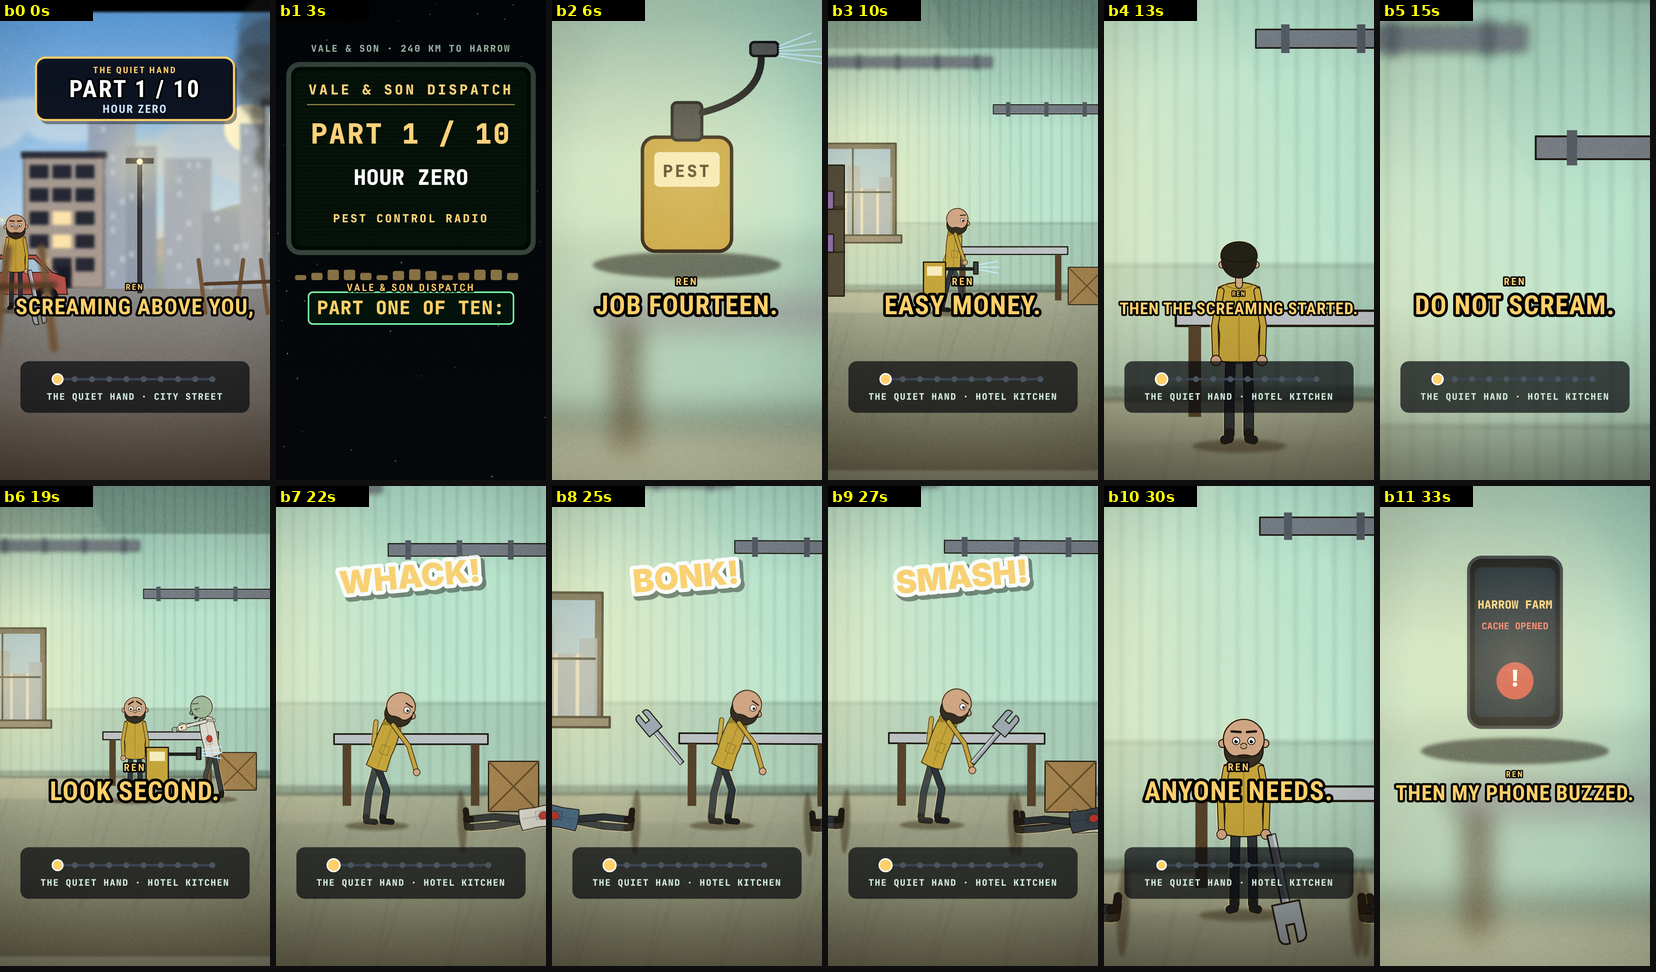
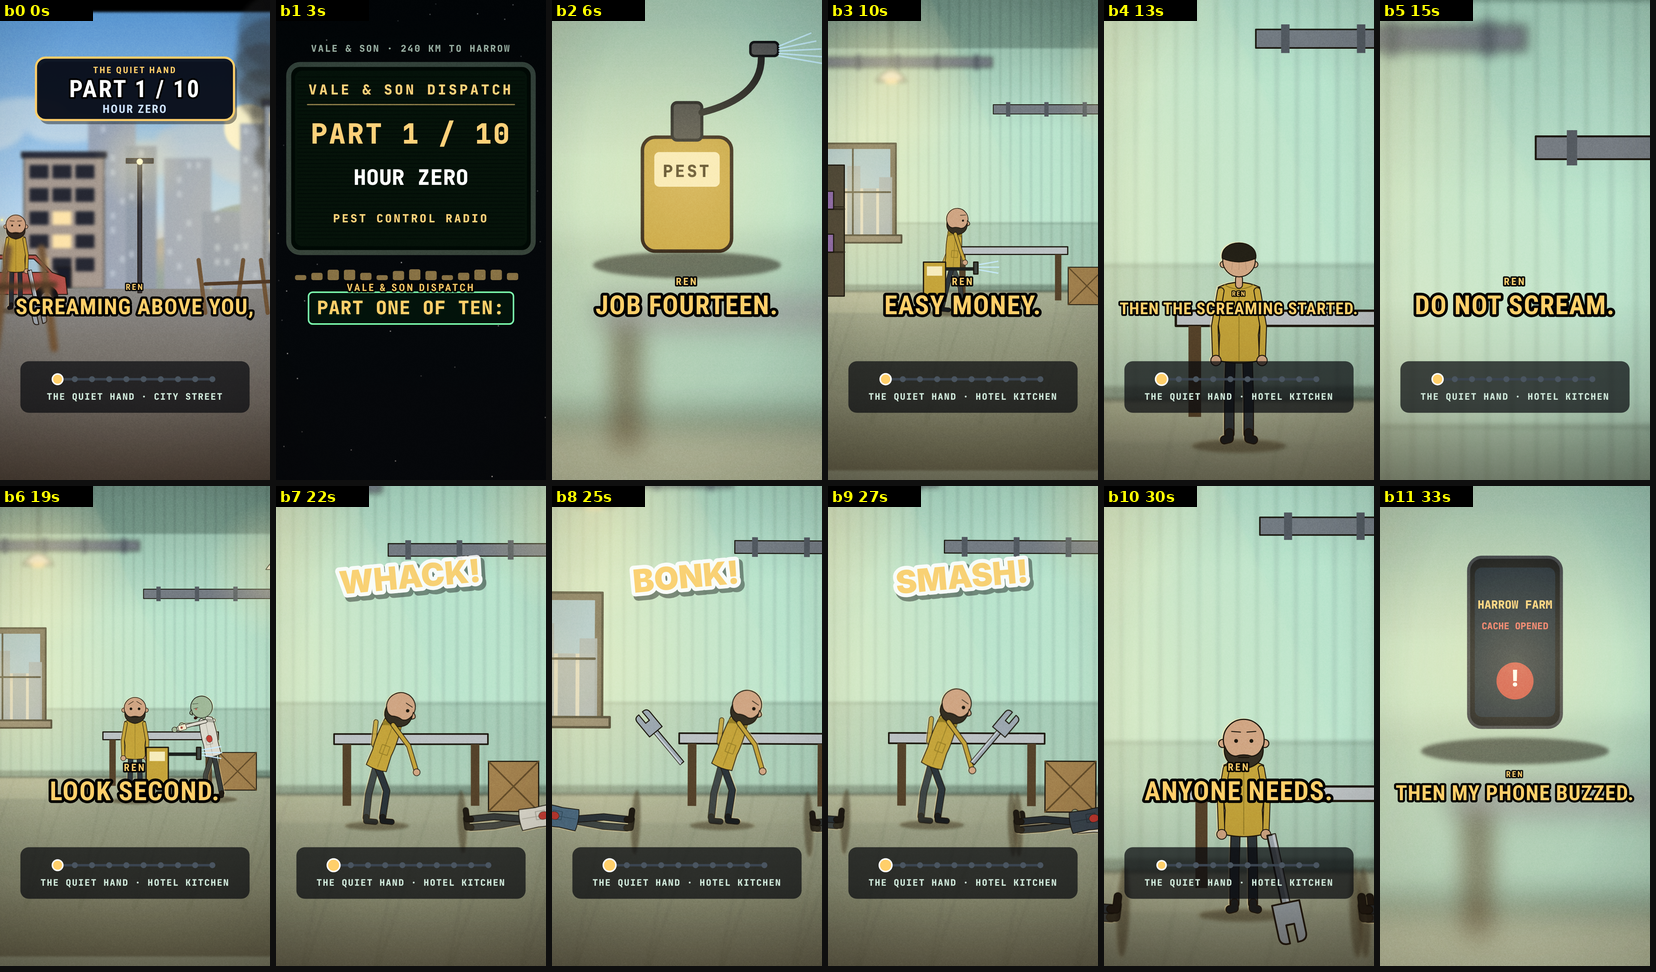
Ep1: pendant lamps + curtain depth, back-of-head fix

diff --git a/studio/long/world9.js b/studio/long/world9.js
@@ -63,6 +63,8 @@ const IT={
   if(day){for(const sx of[330,760,1040]){const sg=G(g,{style:'filter:blur(5px)'});for(let j=0;j<7;j++)C(sg,sx+Math.sin(j*1.3)*18,-340-j*52,34+j*10,'#3a3836',{opacity:.55-j*.04})}}},
  keys:(g,o)=>{C(g,0,-30,22,'none',{stroke:'#aab2bb','stroke-width':7});for(let i=0;i<6;i++){const q=G(g,{transform:`rotate(${-60+i*24} 0 -30)`});R(q,-5,-62,10,44,['#d4a62a','#aab2bb','#c0504a','#4a7ab0'][i%4],S({'stroke-width':2.4}));C(q,0,-52,3,'#241408')}},
  sprayer:(g,o)=>{R(g,-26,-96,52,92,'#c8a028',S());R(g,-18,-86,36,22,'#f2e6b0');R(g,26,-84,70,8,'#222');R(g,92,-96,10,28,'#444',S());P(g,'M104,-90 L150,-98 M104,-84 L152,-84 M104,-78 L150,-70','none',{stroke:'#bfe8ff','stroke-width':3,opacity:.85})},
+ pendant:(g,o)=>{L(g,0,-900,0,-(o.h||210),INK,3);P(g,'M-34,-'+((o.h||210)-34)+' Q0,-'+((o.h||210)+18)+' 34,-'+((o.h||210)-34)+'Z','#e8e0c8',S());C(g,0,-(o.h||210)+36,o.r||150,'url(#gLamp)',{opacity:o.a||.5});R(g,-14,-(o.h||210)+30,28,10,GL,{opacity:.95})},
+ curtain:(g,o)=>{for(let i=0;i<6;i++)P(g,'M'+(i*22)+',-'+(o.h||300)+' Q'+(i*22+10)+',-'+((o.h||300)/2)+' '+(i*22)+',0 L'+(i*22+22)+',0 Q'+(i*22+30)+',-'+((o.h||300)/2)+' '+(i*22+22)+',-'+(o.h||300)+'Z',o.c||'#c8695a',{opacity:.92,stroke:INK,'stroke-width':1.4})},
  wrench:(g,o)=>{const q=G(g,{});R(q,-7,-120,14,120,'#9aa4b0',S());R(q,-7,-120,5,120,'#d6dde6',{opacity:.7});P(q,'M-24,-120 L-24,-176 Q-24,-190 -10,-190 L-7,-190 L-7,-158 L7,-158 L7,-190 L10,-190 Q24,-190 24,-176 L24,-120Z','#9aa4b0',S())},
  flashlight:(g,o)=>{R(g,-8,-70,16,70,'#333',S());R(g,-12,-92,24,22,'#555',S());P(g,'M-12,-92 L-60,-170 L60,-170 L12,-92Z','#fff6b0',{opacity:.28})},
  pan:(g,o)=>{C(g,0,-60,48,'#2a2a30',S());C(g,0,-60,36,'#c8ccd4');P(g,'M-14,-80 L10,-74 L-6,-52Z','#fff',{opacity:.7});R(g,44,-68,96,16,'#2a2a30',S({'stroke-width':2.4}))},

diff --git a/studio/long/pax9.js b/studio/long/pax9.js
@@ -91,7 +91,7 @@ const P_=(g,d,fill,o)=>P(g,d,fill,Object.assign({stroke:'#2a1c13','stroke-width'
 function paxBack(g,P,D,o,ink){const q=G(g,{transform:`scale(${D.hs||(D.kid?1.18:1.1)})`});const hc=D.hc||'#2a1e16',h=D.hair;
  for(const s of[-1,1])C(q,s*31,8,6.2,P.skin,{stroke:ink,'stroke-width':2.5});
  if(h==='pigtails'){for(const s of[-1,1]){blob(q,`M${s*30},-6 Q${s*58},4 ${s*52},46 Q${s*40},32 ${s*28},8Z`,hc,ink);C(q,s*38,10,5,'#e0463a',{stroke:ink,'stroke-width':2})}}
- const skull=h==='straw'?(D.bun||'#d4d4dc'):(h==='bald'&&!D.hc?P.skin:hc);
+ const hairy=['bun','curls','bob','pony','messy','beanie','seedcap','pigtails','hood','slick'].includes(h);const skull=h==='straw'?(D.bun||'#d4d4dc'):((h==='bald'||!hairy)?P.skin:hc);
  C(q,0,0,32,skull,{stroke:ink,'stroke-width':3});for(const dx of[-12,0,12])L(q,dx,-2,dx+(dx?dx*.2:0),18,ink,1.6,{opacity:.18});
  if(h==='straw'){C(q,0,6,14,D.bun||'#d4d4dc',{stroke:ink,'stroke-width':2.4});E('ellipse',{cx:0,cy:-8,rx:50,ry:11,fill:hc,stroke:ink,'stroke-width':3},q);blob(q,'M-30,-8 C-34,-46 34,-46 30,-8Z',hc,ink);R(q,-31,-22,62,8,'#a8332b',{stroke:ink,'stroke-width':2})}
  else if(h==='seedcap'){blob(q,'M-34,2 C-40,-48 40,-48 34,2 Q0,-8 -34,2Z',hc,ink);R(q,-16,-8,32,9,'#ffd23a',{rx:3,stroke:ink,'stroke-width':1.8});L(q,-30,0,30,0,'#1e4f2c',2.4);C(q,0,-40,3.4,'#1e4f2c')}

diff --git a/studio/departments/BACKLOG.md b/studio/departments/BACKLOG.md
@@ -1,6 +1,6 @@
 # Studio backlog (generated by improve.py, do not edit by hand)
 
-Updated 2026-10-30 12:52 UTC from 4 reviewed clips. Work from the top; fix the CAUSE in the toolchain, then re-review.
+Updated 2026-10-30 13:11 UTC from 4 reviewed clips. Work from the top; fix the CAUSE in the toolchain, then re-review.
 
 | # | dept | seen in | issue |
 |---:|---|---:|---|
@@ -9,7 +9,7 @@ Updated 2026-10-30 12:52 UTC from 4 reviewed clips. Work from the top; fix the C
 | 3 | art | 2 | ART: two locations have almost the same colour world (distance 10 < 14): give each place its own colour key |
 | 4 | direction | 2 | DIRECTION: more than 3 shots of the same size in a row (beats [9, 18, 19, 20, 21]): vary wide / medium / close |
 | 5 | direction | 2 | DIRECTION: the same picture (place + size) holds for 10.4 s (> 6.5 s): cut, move the camera or change the subject |
-| 6 | qc | 2 | QC: total bitrate 4.5 Mbps (3-14) |
+| 6 | qc | 2 | QC: total bitrate 4.7 Mbps (3-14) |
 | 7 | editorial | 2 | EDITORIAL: 1 caption chunk(s) stop on a dangling word, e.g. ['SCREAMING ABOVE YOU,']: break captions at phrase boundaries |
 | 8 | editorial | 2 | EDITORIAL: 6 caption(s) read faster than 17 characters/s [('IF YOU HEAR', 21.4), ('SCREAMING ABOVE YOU,', 19.5), ("DON'T GO UP.", 17.5)] |
 | 9 | story | 1 | STORY/storylint(warn): a 2.5D lane location is used |

diff --git a/studio/departments/scorecards/quiet_01.md b/studio/departments/scorecards/quiet_01.md
@@ -1,4 +1,4 @@
-# Scorecard quiet_01  (2026-10-30 12:52 UTC)
+# Scorecard quiet_01  (2026-10-30 13:11 UTC)
 
 | department | score | bar | verdict |
 |---|---:|---:|---|
@@ -35,4 +35,4 @@
 * WRITING: ren talks 3 lines in a row: break it with a reaction or action
 
 ## qc
-* QC: total bitrate 4.5 Mbps (3-14)
+* QC: total bitrate 4.7 Mbps (3-14)
